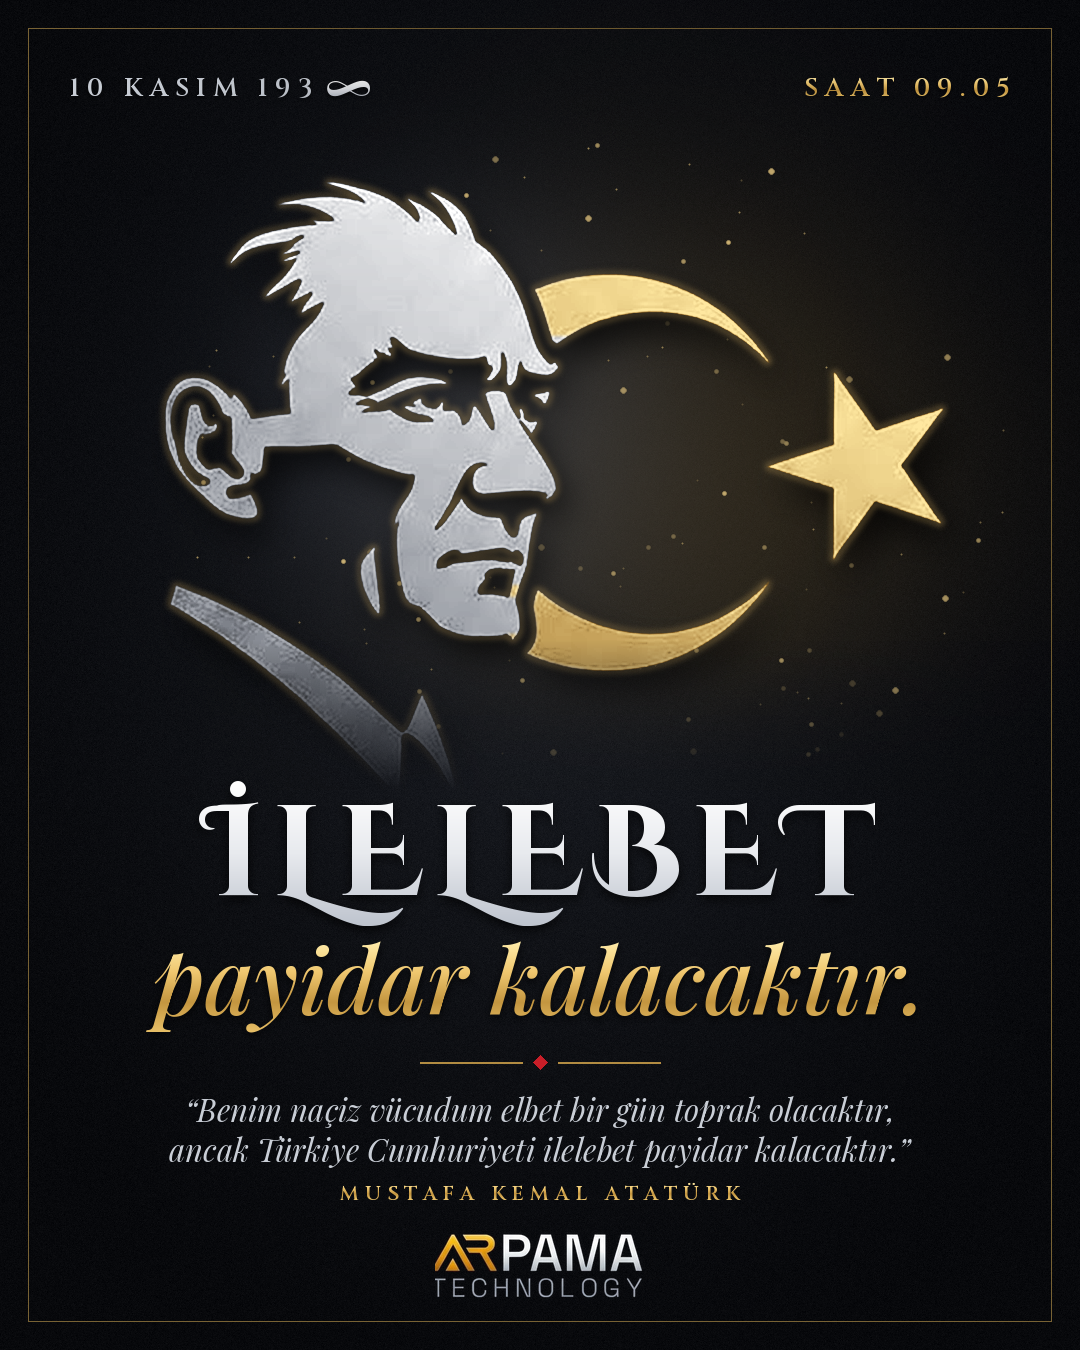
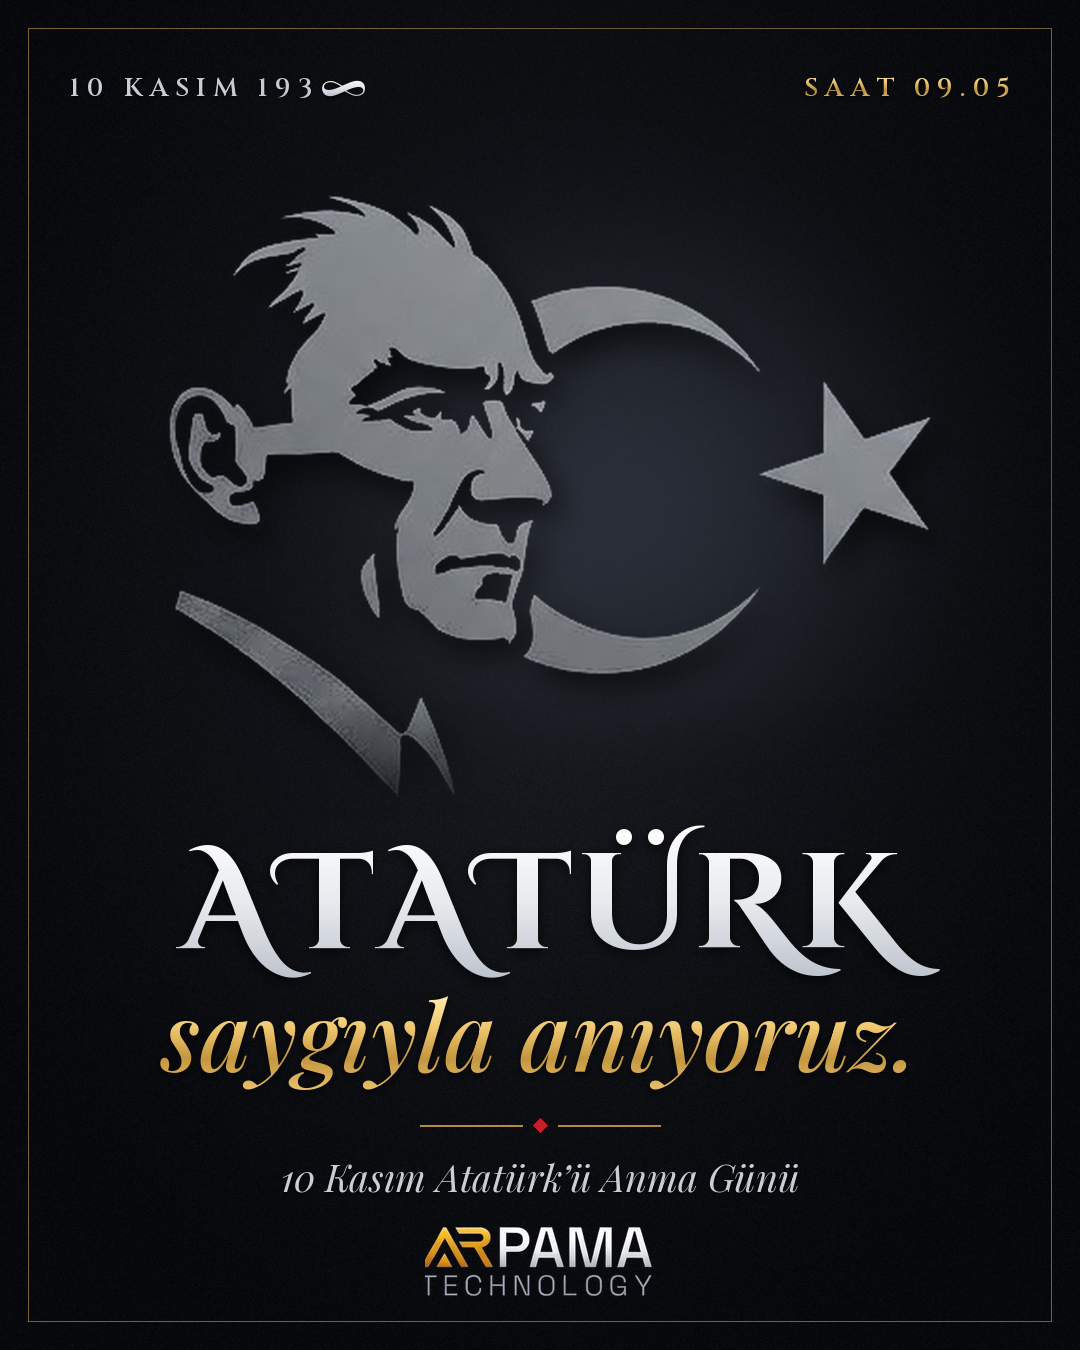
10 Kasım carousel: 1. sayfa ilk tasarıma döndü (193∞ + 4K), yeni tasarım alternatif olarak kaldı
Claude-Session: https://claude.ai/code/session_01ExMbP4GyKkP4DRQ1sMWurz

diff --git a/scripts/ozel/ataturk_carousel.py b/scripts/ozel/ataturk_carousel.py
@@ -248,7 +248,7 @@ def sayfa1():
     ust = font("cinzel", 26, 600)
     # 1938'in 8'i sonsuzluk işareti
     g = yazi(d, "10 KASIM 193", 70, 70, ust, GUMUS, "sol", aralik=7)
-    yazi(d, "∞", 70 + g + 12, 46, font("playfair", 58, 600), GUMUS_GECIS, "sol")
+    yazi(d, "∞", 70 + g + 7, 46, font("playfair", 58, 600), GUMUS_GECIS, "sol")
     yazi(d, "SAAT 09.05", W - 70, 70, ust, ALTIN_GECIS, "sag", aralik=7)
 
     sp = portre_metalik(900)
@@ -278,6 +278,40 @@ def sayfa1():
     yazi(d, "ancak Türkiye Cumhuriyeti ilelebet payidar kalacaktır.”", W / 2, 1128, soz, GUMUS, golge=False)
     yazi(d, "MUSTAFA KEMAL ATATÜRK", W / 2, 1180, font("cinzel", 20, 600), ALTIN_GECIS, aralik=6, golge=False)
     logo_koy(im, 1226, 210)
+    return im.convert("RGB")
+
+
+def sayfa1_klasik():
+    """İlk tasarım (kullanıcının tercihi): gri portre, "ATATÜRK / saygıyla anıyoruz."."""
+    im = zemin()
+    d = Ciz(im)
+    ust = font("cinzel", 26, 600)
+    # 1938'in 8'i sonsuzluk işareti
+    g = yazi(d, "10 KASIM 193", 70, 70, ust, GUMUS, "sol", aralik=7)
+    yazi(d, "∞", 70 + g + 7, 46, font("playfair", 58, 600), GUMUS_GECIS, "sol")
+    yazi(d, "SAAT 09.05", W - 70, 70, ust, ALTIN_GECIS, "sag", aralik=7)
+
+    sp = portre(int(round(880 * S)))
+    sw, sh = sp.width / S, sp.height / S
+    px, py = W / 2 - sw / 2 + 10, 150
+    hale(im, px + sw * 0.6, py + sh * 0.5, 300, (60, 66, 80), 0.6)
+    golge = Image.new("RGBA", sp.size, (0, 0, 0, 0))
+    golge.putalpha(sp.getchannel("A").point(lambda v: int(v * 0.6)))
+    im.alpha_composite(golge.filter(ImageFilter.GaussianBlur(14 * S)), (int((px + 10) * S), int((py + 16) * S)))
+    im.alpha_composite(sp, (int(px * S), int(py * S)))
+
+    yy = np.arange(CH)[:, None] / S
+    erit = np.clip((yy - 700) / 120, 0, 1)
+    alt = np.array(zemin()).astype(np.float32)
+    ust_k = np.array(im).astype(np.float32)
+    im = Image.fromarray((ust_k * (1 - erit[..., None]) + alt * erit[..., None]).astype(np.uint8), "RGBA")
+    d = Ciz(im)
+
+    yazi(d, "ATATÜRK", W / 2, 815, font("dekor", 136), GUMUS_GECIS, aralik=4)
+    yazi(d, "saygıyla anıyoruz.", W / 2, 968, font("italik", 96, 500), ALTIN_GECIS)
+    ayrac(d, 1125)
+    yazi(d, "10 Kasım Atatürk’ü Anma Günü", W / 2, 1150, font("italik", 38, 400), GUMUS)
+    logo_koy(im, 1218)
     return im.convert("RGB")
 
 
@@ -348,7 +382,7 @@ def sayfa2():
 def main():
     for ek, olcek in (("", 1.0), ("-4k", 3840 / H)):
         olcek_ayarla(olcek)
-        for ad, f in (("carousel-1", sayfa1), ("carousel-2", sayfa2)):
+        for ad, f in (("carousel-1", sayfa1_klasik), ("carousel-2", sayfa2), ("carousel-1-alternatif", sayfa1)):
             im = f()
             im.save(DIZIN / f"{ad}{ek}.png")
             print(ad + ek, im.size)
